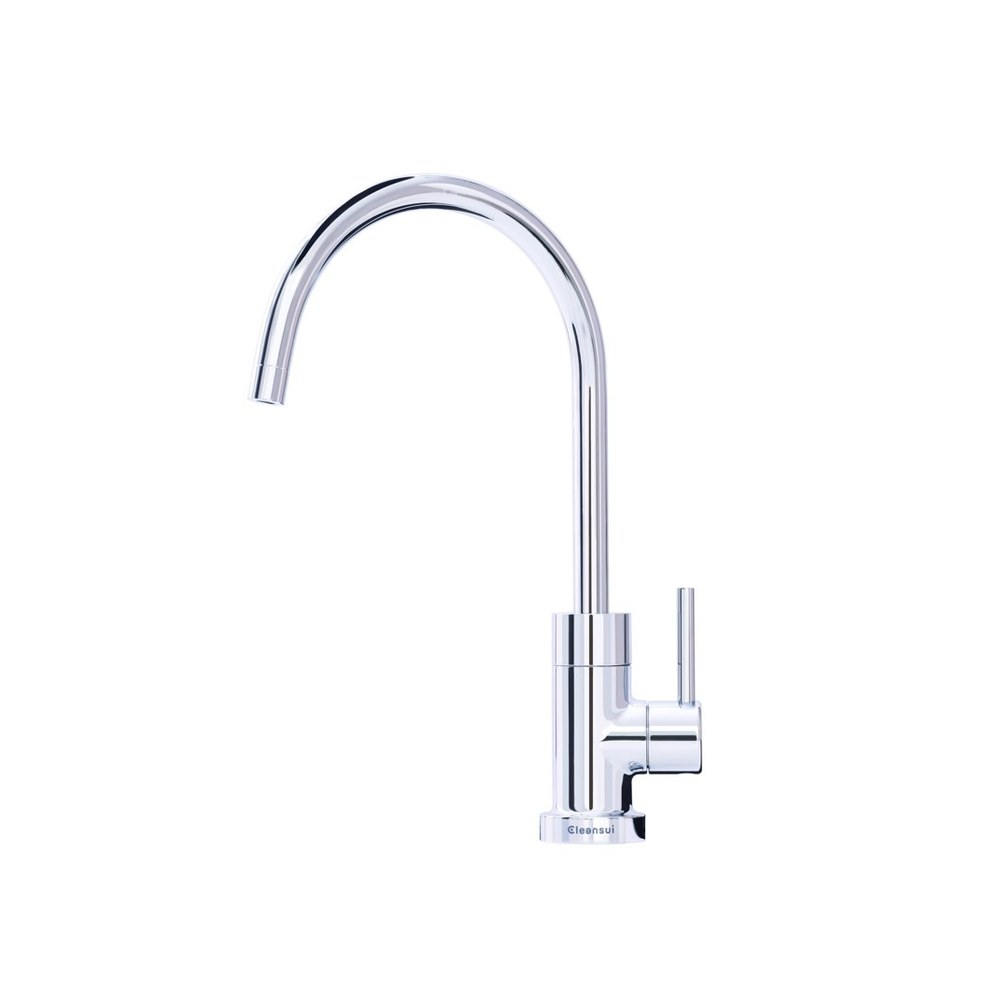
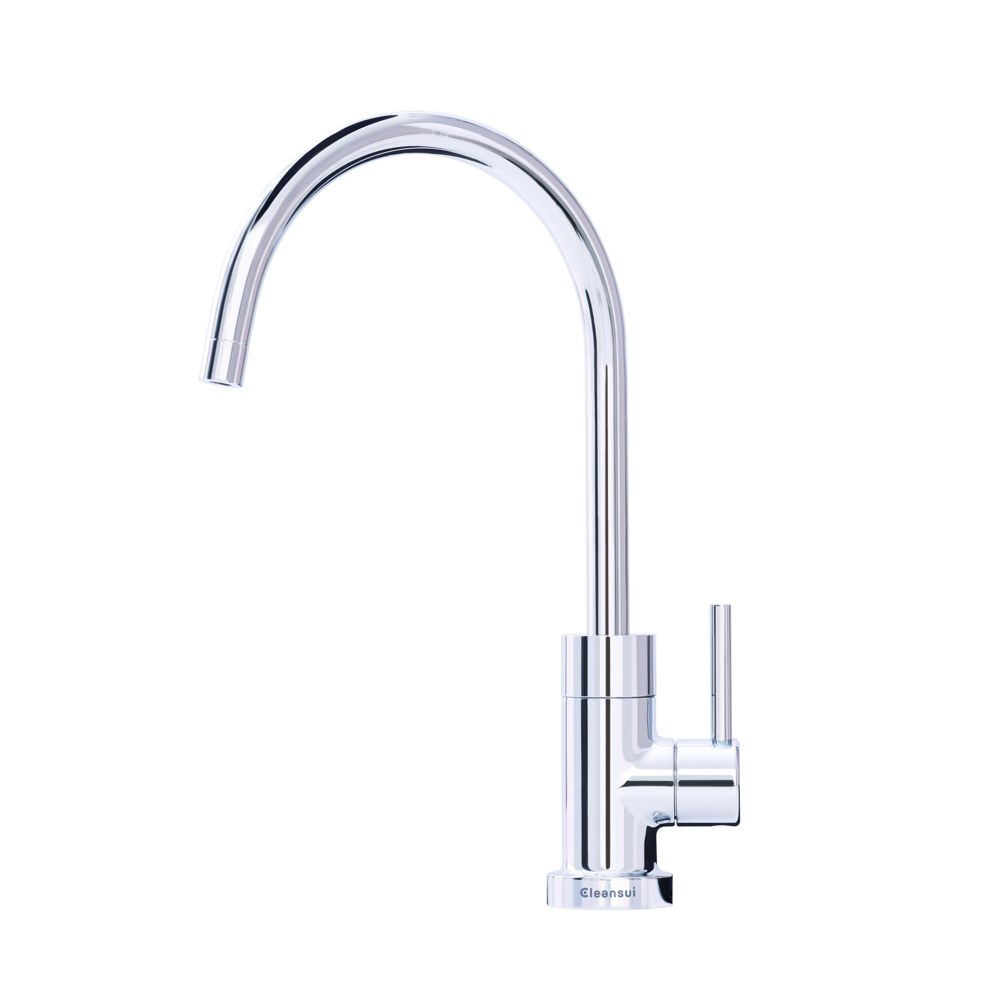
Add multi-image carousels for 9 more Cleansui/Kitz models
Pull additional product angles from local high-res Cleansui asset folders
(EU103, EU201, MP02-3, MP02-4, MPOE-S4) and verified kitzmf.vn product
photos (Purifree, OAS-NTS9, OSS-G4-E, OAS-9) to populate the images[]
gallery field added for EU301. Skipped one Kitz image (osst7) after
noticing it actually depicts the OSSC-7 filter cartridge, not the OSS-T7
unit itself — avoided mislabeling it as a product photo.

Changed region(s): [[0.186, 0.093, 0.744, 0.93]]

diff --git a/data/products.ts b/data/products.ts
@@ -96,6 +96,12 @@ export const products: Product[] = [
     originalPrice: 28990000,
     icon: "💧",
     imageUrl: "/images/products/cleansui-eu201.jpg",
+    images: [
+      "/images/products/cleansui-eu201.jpg",
+      "/images/products/cleansui-eu201-gallery-2.jpg",
+      "/images/products/cleansui-eu201-gallery-3.jpg",
+      "/images/products/cleansui-eu201-gallery-4.jpg",
+    ],
     features: [
       { image: "/images/products/cleansui-eu201.jpg", caption: "Sản xuất và nhập khẩu nguyên chiếc từ Nhật Bản, vòi xoay 120° tiện lợi." },
       { image: "/images/tech/chan-vi-khuan-sem.jpg", caption: "Công nghệ màng lọc sợi rỗng loại bỏ vi khuẩn, tạp chất nhỏ tới 0,01 micromet, vẫn giữ khoáng tự nhiên." },
@@ -151,6 +157,12 @@ export const products: Product[] = [
     originalPrice: 11690000,
     icon: "💧",
     imageUrl: "/images/products/cleansui-eu103.jpg",
+    images: [
+      "/images/products/cleansui-eu103.jpg",
+      "/images/products/cleansui-eu103-gallery-2.jpg",
+      "/images/products/cleansui-eu103-gallery-3.jpg",
+      "/images/products/cleansui-eu103-gallery-4.jpg",
+    ],
     features: [
       { image: "/images/products/cleansui-eu103.jpg", caption: "Sản xuất và nhập khẩu nguyên chiếc từ Nhật Bản, mẫu rẻ nhất dòng lắp dưới bồn rửa." },
       { image: "/images/tech/chan-vi-khuan-sem.jpg", caption: "Công nghệ màng lọc sợi rỗng loại bỏ vi khuẩn, tạp chất nhỏ tới 0,01 micromet, vẫn giữ khoáng tự nhiên." },
@@ -210,6 +222,11 @@ export const products: Product[] = [
     originalPrice: 15590000,
     icon: "💧",
     imageUrl: "/images/products/cleansui-mp02-3.jpg",
+    images: [
+      "/images/products/cleansui-mp02-3.jpg",
+      "/images/products/cleansui-mp02-3-gallery-2.jpg",
+      "/images/products/cleansui-mp02-3-gallery-3.jpg",
+    ],
     features: [
       { image: "/images/products/cleansui-mp02-3.jpg", caption: "Sản xuất và nhập khẩu nguyên chiếc từ Nhật Bản, thân thép không gỉ cao cấp." },
       { image: "/images/tech/chan-vi-khuan-sem.jpg", caption: "Bộ lọc UMC2150 2 cấp loại bỏ tạp chất, vi khuẩn, kim loại nặng, mùi Clo dư." },
@@ -238,6 +255,11 @@ export const products: Product[] = [
     originalPrice: 15590000,
     icon: "💧",
     imageUrl: "/images/products/cleansui-mp02-4.jpg",
+    images: [
+      "/images/products/cleansui-mp02-4.jpg",
+      "/images/products/cleansui-mp02-4-gallery-2.jpg",
+      "/images/products/cleansui-mp02-4-gallery-3.jpg",
+    ],
     features: [
       { image: "/images/products/cleansui-mp02-4.jpg", caption: "Sản xuất và nhập khẩu nguyên chiếc từ Nhật Bản, thân thép không gỉ cao cấp." },
       { image: "/images/tech/chan-vi-khuan-sem.jpg", caption: "Công nghệ màng lọc sợi rỗng loại bỏ vi khuẩn, tạp chất nhỏ tới 0,01 micromet." },
@@ -266,6 +288,11 @@ export const products: Product[] = [
     originalPrice: 233690000,
     icon: "💧",
     imageUrl: "/images/products/cleansui-mpoe-s4.jpg",
+    images: [
+      "/images/products/cleansui-mpoe-s4.jpg",
+      "/images/products/cleansui-mpoe-s4-gallery-2.jpg",
+      "/images/products/cleansui-mpoe-s4-gallery-3.jpg",
+    ],
     videoId: "TSZDa0qC-eY",
     features: [
       { image: "/images/products/cleansui-mpoe-s4.jpg", caption: "Bao gồm 4 bộ lọc MPOE050E sản xuất 100% tại Nhật Bản, tuổi thọ tới 500.000 lít/bộ lọc." },
@@ -360,6 +387,10 @@ export const products: Product[] = [
     originalPrice: 5200000,
     icon: "💧",
     imageUrl: "/images/products/kitz-purifree.jpg",
+    images: [
+      "/images/products/kitz-purifree.jpg",
+      "/images/products/kitz-purifree-gallery-2.jpg",
+    ],
     features: [
       { image: "/images/products/kitz-purifree.jpg", caption: "Sản xuất 100% tại Nhật Bản bởi Kitz Group, lắp trực tiếp tại vòi." },
       { image: "/images/tech/chan-vi-khuan-sem.jpg", caption: "Lọc 4 cấp qua màng sợi rỗng, loại bỏ tạp chất mà vẫn giữ khoáng tự nhiên." },
@@ -389,6 +420,10 @@ export const products: Product[] = [
     originalPrice: 8000000,
     icon: "💧",
     imageUrl: "/images/products/kitz-oas-nts9.jpg",
+    images: [
+      "/images/products/kitz-oas-nts9.jpg",
+      "/images/products/kitz-oas-nts9-gallery-2.jpg",
+    ],
     features: [
       { image: "/images/products/kitz-oas-nts9.jpg", caption: "Sản xuất 100% tại Nhật Bản, lắp linh hoạt tại vòi hoặc âm tủ." },
       { image: "/images/tech/chan-vi-khuan-sem.jpg", caption: "Công nghệ màng lọc sợi rỗng tiên tiến, đạt chuẩn ISO 9001:2015 và ISO 14001:2015." },
@@ -444,6 +479,10 @@ export const products: Product[] = [
     originalPrice: 11500000,
     icon: "💧",
     imageUrl: "/images/products/kitz-oss-g4-e.jpg",
+    images: [
+      "/images/products/kitz-oss-g4-e.jpg",
+      "/images/products/kitz-oss-g4-e-gallery-2.jpg",
+    ],
     features: [
       { image: "/images/products/kitz-oss-g4-e.jpg", caption: "Sản xuất 100% tại Nhật Bản, lắp âm tủ, vòi chính hãng bảo hành chống gỉ 5 năm." },
       { image: "/images/tech/chan-vi-khuan-sem.jpg", caption: "Công nghệ màng lọc sợi rỗng loại bỏ tạp chất, vi khuẩn mà vẫn giữ khoáng tự nhiên." },
@@ -472,6 +511,10 @@ export const products: Product[] = [
     originalPrice: 8800000,
     icon: "💧",
     imageUrl: "/images/products/kitz-oas-9.jpg",
+    images: [
+      "/images/products/kitz-oas-9.jpg",
+      "/images/products/kitz-oas-9-gallery-2.jpg",
+    ],
     features: [
       { image: "/images/products/kitz-oas-9.jpg", caption: "Sản xuất 100% tại Nhật Bản, thân thép không gỉ SUS304 lắp âm tủ." },
       { image: "/images/tech/chan-vi-khuan-sem.jpg", caption: "Màng lọc sợi rỗng tiên tiến loại bỏ vi khuẩn, tạp chất nhỏ tới 0,1 micromet." },